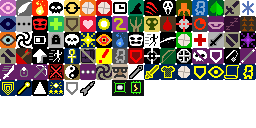
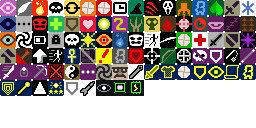
feat(hacker/traveler): 端口扫描重做为设备发现 + 骇入解除距离限制 + 旅行者机制修复
骇客：
- 一层天赋「端口扫描」重做为「设备发现」：击杀敌人后15%/30%几率
  获得一名随机敌人10回合视野（与奥术感知同机制，CharAwareness），
  触发提示「探测到局域网内的新用户」（存档点数自动迁移）
- 主动骇入移除8格距离限制：任何可见/被感知的敌人都可骇入
- 移除终端自施法扫描与饱腹值消耗

旅行者（全面审查修复）：
- 注魂爆发：眩晕改为狂乱(Amok)，文案同步（原文案「沉沦」与实现不符）
- 元素爆发补充魔法免疫检查（与战技一致）
- 战技充能不足时隐藏动作且fizzle不再误扣回合
- 神之眼buff图标(86号位)补画眼睛图案并纳入sprite_lab管线
  （根因：管线此前只生成过87/88两帧）
- 文案对齐实现：魔弹爆发能量返还、冲击波自施法漂浮与全层传送、
  冰霜战技回合数注释说明
- 英文天赋标题首字母大写

Changed region(s): [[0.375, 0.625, 0.4375, 0.75]]

diff --git a/core/src/main/java/com/shatteredpixel/shatteredpixeldungeon/items/PortableTerminal.java b/core/src/main/java/com/shatteredpixel/shatteredpixeldungeon/items/PortableTerminal.java
@@ -30,9 +30,7 @@ import com.shatteredpixel.shatteredpixeldungeon.actors.Actor;
 import com.shatteredpixel.shatteredpixeldungeon.actors.Char;
 import com.shatteredpixel.shatteredpixeldungeon.actors.buffs.Buff;
 import com.shatteredpixel.shatteredpixeldungeon.actors.buffs.Hacked;
-import com.shatteredpixel.shatteredpixeldungeon.actors.buffs.Hunger;
 import com.shatteredpixel.shatteredpixeldungeon.actors.buffs.MagicImmune;
-import com.shatteredpixel.shatteredpixeldungeon.actors.buffs.MindVision;
 import com.shatteredpixel.shatteredpixeldungeon.actors.buffs.Paralysis;
 import com.shatteredpixel.shatteredpixeldungeon.actors.hero.Hero;
 import com.shatteredpixel.shatteredpixeldungeon.actors.hero.HeroSubClass;
@@ -98,27 +96,9 @@ public class PortableTerminal extends Item {
                     if (cell == null) {
                         return; // 取消
                     }
-                    // 端口扫描（一层天赋）：骇客对自身使用终端，获得 3/5 回合灵视。
-                    // 不消耗时间，但消耗 10 点饱腹值。
-                    if (cell == hero.pos && hero.hasTalent(Talent.PORT_SCAN)) {
-                        Hunger hunger = hero.buff(Hunger.class);
-                        if (hunger == null || hunger.full() < 10) {
-                            GLog.w(Messages.get(PortableTerminal.class, "scan_hungry"));
-                            return;
-                        }
-                        int turns = 1 + 2 * hero.pointsInTalent(Talent.PORT_SCAN);
-                        hunger.affectHunger(-10);
-                        Buff.prolong(hero, MindVision.class, turns);
-                        Sample.INSTANCE.play(Assets.Sounds.SCAN);
-                        GLog.p(Messages.get(PortableTerminal.class, "scan_success", turns));
-                        hero.sprite.operate(hero.pos);
-                        Dungeon.observe();
-                        return;
-                    }
-                    // 无效目标：视野外/超距/空格/非敌人（自己、NPC、队友等）——不触发并提示
-                    // 灵视状态下无视 8 格距离限制，可骇入任何被灵视感知到的敌人
-                    if (!Dungeon.level.heroFOV[cell]
-                            || (Dungeon.level.distance(cell, hero.pos) > 8 && hero.buff(MindVision.class) == null)) {
+                    // 无效目标：视野/感知外、空格、非敌人（自己、NPC、队友等）——不触发并提示
+                    // 无距离限制：任何可见的敌人（包括灵视/感知发现的）都可骇入
+                    if (!Dungeon.level.heroFOV[cell]) {
                         GLog.w(Messages.get(PortableTerminal.class, "no_target"));
                         return;
                     }
@@ -143,9 +123,6 @@ public class PortableTerminal extends Item {
 
                 @Override
                 public String prompt() {
-                    if (Dungeon.hero.hasTalent(Talent.PORT_SCAN)) {
-                        return Messages.get(PortableTerminal.class, "prompt_scan");
-                    }
                     return Messages.get(PortableTerminal.class, "prompt");
                 }
             });

diff --git a/core/src/main/java/com/shatteredpixel/shatteredpixeldungeon/actors/mobs/Mob.java b/core/src/main/java/com/shatteredpixel/shatteredpixeldungeon/actors/mobs/Mob.java
@@ -57,6 +57,7 @@ import com.shatteredpixel.shatteredpixeldungeon.actors.buffs.Terror;
 import com.shatteredpixel.shatteredpixeldungeon.actors.hero.Hero;
 import com.shatteredpixel.shatteredpixeldungeon.actors.hero.HeroClass;
 import com.shatteredpixel.shatteredpixeldungeon.actors.hero.HeroSubClass;
+import com.shatteredpixel.shatteredpixeldungeon.actors.buffs.Hacked;
 import com.shatteredpixel.shatteredpixeldungeon.actors.hero.Talent;
 import com.shatteredpixel.shatteredpixeldungeon.actors.hero.abilities.ArmorAbility;
 import com.shatteredpixel.shatteredpixeldungeon.actors.hero.abilities.cleric.PowerOfMany;
@@ -102,6 +103,7 @@ import com.shatteredpixel.shatteredpixeldungeon.plants.Swiftthistle;
 import com.shatteredpixel.shatteredpixeldungeon.scenes.GameScene;
 import com.shatteredpixel.shatteredpixeldungeon.sprites.CharSprite;
 import com.shatteredpixel.shatteredpixeldungeon.utils.GLog;
+import com.shatteredpixel.shatteredpixeldungeon.items.artifacts.TalismanOfForesight;
 import com.watabou.noosa.audio.Sample;
 import com.watabou.utils.Bundle;
 import com.watabou.utils.PathFinder;
@@ -1053,6 +1055,26 @@ public abstract class Mob extends Char {
                         && Dungeon.hero.buff(Talent.LethalHasteCooldown.class) == null) {
                     Buff.affect(Dungeon.hero, Talent.LethalHasteCooldown.class, 100f);
                     Buff.affect(Dungeon.hero, GreaterHaste.class).set(2 + 2 * Dungeon.hero.pointsInTalent(Talent.LETHAL_HASTE));
+                }
+            }
+
+            // 设备发现（骇客）：击杀敌人后有 15%/30% 几率获得一名随机存活敌人的视野（10 回合）
+            if (Dungeon.hero.hasTalent(Talent.DEVICE_DISCOVERY)
+                    && (cause == Dungeon.hero || cause instanceof Weapon || cause instanceof Weapon.Enchantment
+                            || cause instanceof Hacked)) {
+                if (Random.Float() < 0.15f * Dungeon.hero.pointsInTalent(Talent.DEVICE_DISCOVERY)) {
+                    ArrayList<Mob> candidates = new ArrayList<>();
+                    for (Mob m : Dungeon.level.mobs) {
+                        if (m != this && m.isAlive() && m.alignment == Alignment.ENEMY) {
+                            candidates.add(m);
+                        }
+                    }
+                    if (!candidates.isEmpty()) {
+                        Mob found = Random.element(candidates);
+                        Buff.append(Dungeon.hero, TalismanOfForesight.CharAwareness.class, 10f).charID = found.id();
+                        GLog.p(Messages.get(Talent.class, "device_discovery.proc"));
+                        Sample.INSTANCE.play(Assets.Sounds.SCAN);
+                    }
                 }
             }
 

diff --git a/tools/sprite_lab/gen_buff_icons.py b/tools/sprite_lab/gen_buff_icons.py
@@ -19,6 +19,25 @@ DARK = (14, 16, 18)
 
 # ---------- 大图标 16x16 ----------
 LARGE = {
+    # 86 神之眼：眼睛剪影（白灰配色，供 EnergyTracker 的蓝色 hardlight 染色）
+    86: dict(bg=DARK, rows=[
+        "................",
+        "................",
+        "................",
+        "................",
+        ".....wwwwww.....",
+        "...ww......ww...",
+        "..w....WW....w..",
+        ".w....WWWW....w.",
+        ".w....WWWW....w.",
+        "..w....WW....w..",
+        "...ww......ww...",
+        ".....wwwwww.....",
+        "................",
+        "................",
+        "................",
+        "................",
+    ]),
     # 87 骇入：灰核心 + 绿缠绕环 + 四角数据线头
     87: dict(bg=DARK, rows=[
         "................",
@@ -61,6 +80,16 @@ LARGE = {
 
 # ---------- 小图标 7x7 ----------
 SMALL = {
+    # 86 神之眼：眼睛
+    86: dict(bg=DARK, rows=[
+        ".......",
+        "..www..",
+        ".w.W.w.",
+        "w.WWW.w",
+        ".w.W.w.",
+        "..www..",
+        ".......",
+    ]),
     87: dict(bg=DARK, rows=[
         ".......",
         ".GGGGG.",
@@ -119,8 +148,8 @@ def main():
     # 预览：大图标 + 小图标 + 原版 buff 风格参照（帧 3燃烧/4 等大图）
     scale = 16
     prev = Image.new("RGBA", (8 * 17 + 1, 35), (40, 40, 48, 255))
-    items = [(large, 87, 16), (large, 88, 16), (large, 3, 16), (large, 6, 16),
-             (small, 87, 7), (small, 88, 7), (small, 3, 7), (small, 6, 7)]
+    items = [(large, 86, 16), (large, 87, 16), (large, 88, 16), (large, 3, 16),
+             (small, 86, 7), (small, 87, 7), (small, 88, 7), (small, 3, 7)]
     for i, (sheet, idx, sz) in enumerate(items):
         cols = 16 if sz == 16 else 18
         box = ((idx % cols) * sz, (idx // cols) * sz, (idx % cols) * sz + sz, (idx // cols) * sz + sz)

diff --git a/core/src/main/java/com/shatteredpixel/shatteredpixeldungeon/actors/hero/Talent.java b/core/src/main/java/com/shatteredpixel/shatteredpixeldungeon/actors/hero/Talent.java
@@ -244,7 +244,7 @@ public enum Talent {
     //Ratmogrify T4
     RATSISTANCE(215, 4), RATLOMACY(216, 4), RATFORCEMENTS(217, 4),
     //Hacker T1
-    PORT_SCAN(1224), RUNESTONE_CONFUSION(1225), ARMOR_PIERCE(1226), REVERSE_PROXY(1227),
+    DEVICE_DISCOVERY(1224), RUNESTONE_CONFUSION(1225), ARMOR_PIERCE(1226), REVERSE_PROXY(1227),
     //Hacker T2
     HOLO_RATIONS(1228), LIQUID_COOLING(1229), BFS_SEARCH(1230), PRIVILEGE_ESCALATION(1231), OVERCLOCKING(1232),
     //Hacker T3
@@ -1601,7 +1601,7 @@ public enum Talent {
                 Collections.addAll(tierTalents, SATIATED_SPELLS, HOLY_INTUITION, SEARING_LIGHT, SHIELD_OF_LIGHT);
                 break;
             case HACKER:
-                Collections.addAll(tierTalents, PORT_SCAN, RUNESTONE_CONFUSION, ARMOR_PIERCE, REVERSE_PROXY);
+                Collections.addAll(tierTalents, DEVICE_DISCOVERY, RUNESTONE_CONFUSION, ARMOR_PIERCE, REVERSE_PROXY);
                 break;
         }
         for (Talent talent : tierTalents) {
@@ -1816,9 +1816,10 @@ public enum Talent {
 
 	private static final HashMap<String, String> renamedTalents = new HashMap<>();
 	static{
-		//v0.1.7：骇客一层「全息口粮」重做为一层「端口扫描」，二层「屏蔽一餐」重做为二层「全息口粮」
-		renamedTalents.put("HOLO_RATIONS", "PORT_SCAN");
+		//v0.1.7：骇客一层「全息口粮」重做为一层「设备发现」，二层「屏蔽一餐」重做为二层「全息口粮」
+		renamedTalents.put("HOLO_RATIONS", "DEVICE_DISCOVERY");
 		renamedTalents.put("SKIPPED_MEAL", "HOLO_RATIONS");
+		renamedTalents.put("PORT_SCAN", "DEVICE_DISCOVERY");
 	}
 
     public static void restoreTalentsFromBundle(Bundle bundle, Hero hero) {

diff --git a/core/src/main/java/com/shatteredpixel/shatteredpixeldungeon/actors/hero/abilities/mage/TravelerSpells.java b/core/src/main/java/com/shatteredpixel/shatteredpixeldungeon/actors/hero/abilities/mage/TravelerSpells.java
@@ -465,6 +465,7 @@ public class TravelerSpells {
             GnosisEye eye = GnosisEye.getHeroGnosisEye(hero);
             if (eye != null) eye.gainEnergy(lvl);
         }
+        // 无敌/冻结 buff 在附加的当回合就会消耗 1 回合，所以 set(3f) 实际生效 2 回合，与文案一致
         Buff.affect(hero, FrozenInvulnerability.class).set(3f);
         hero.sprite.centerEmitter().burst(com.shatteredpixel.shatteredpixeldungeon.effects.particles.SnowParticle.FACTORY, 10);
         Sample.INSTANCE.play(Assets.Sounds.SHATTER);
@@ -561,8 +562,9 @@ public class TravelerSpells {
             Charm charm = Buff.affect(ch, Charm.class, 10f);
             charm.object = hero.id();
             Buff.prolong(ch, Paralysis.class, 3f);
-            if (Random.Float() < 0.5f && !ch.isImmune(com.shatteredpixel.shatteredpixeldungeon.actors.buffs.Vertigo.class)) {
-                Buff.prolong(ch, com.shatteredpixel.shatteredpixeldungeon.actors.buffs.Vertigo.class, 5f);
+            // 50% 概率狂乱（敌我不分），免疫或判定失败则改为自攻
+            if (Random.Float() < 0.5f && !ch.isImmune(com.shatteredpixel.shatteredpixeldungeon.actors.buffs.Amok.class)) {
+                Buff.affect(ch, com.shatteredpixel.shatteredpixeldungeon.actors.buffs.Amok.class, 5f);
             } else {
                 ch.attack(ch);
             }

diff --git a/core/src/main/java/com/shatteredpixel/shatteredpixeldungeon/items/weapon/melee/MagesStaff.java b/core/src/main/java/com/shatteredpixel/shatteredpixeldungeon/items/weapon/melee/MagesStaff.java
@@ -115,9 +115,10 @@ public class MagesStaff extends MeleeWeapon {
         if (wand != null) {
             if (hero.subClass == HeroSubClass.TRAVELER) {
                 GnosisEye eye = GnosisEye.getHeroGnosisEye(hero);
-                if (eye != null && eye.skillMode) {
+                // 战技模式下充能不足时不显示战技动作（与法杖充能耗尽时隐藏释放动作一致）
+                if (eye != null && eye.skillMode && wand.curCharges >= skillChargeCost()) {
                     actions.add(AC_ELEMENTAL_SKILL);
-                } else if (wand.curCharges > 0) {
+                } else if ((eye == null || !eye.skillMode) && wand.curCharges > 0) {
                     actions.add(AC_ZAP);
                 }
             } else if (wand.curCharges > 0) {
@@ -202,8 +203,8 @@ public class MagesStaff extends MeleeWeapon {
             return;
         }
         if (wand.curCharges < skillChargeCost()) {
+            // 充能不足：仅提示，不消耗回合（正常情况下动作已被隐藏，此处为快捷栏等入口的兜底）
             GLog.w(Messages.get(Wand.class, "fizzles"));
-            hero.spendAndNext(Actor.TICK);
             return;
         }
         promptSkillTarget(hero);

diff --git a/core/src/main/java/com/shatteredpixel/shatteredpixeldungeon/items/artifacts/GnosisEye.java b/core/src/main/java/com/shatteredpixel/shatteredpixeldungeon/items/artifacts/GnosisEye.java
@@ -27,6 +27,7 @@ package com.shatteredpixel.shatteredpixeldungeon.items.artifacts;
 import com.shatteredpixel.shatteredpixeldungeon.Dungeon;
 import com.shatteredpixel.shatteredpixeldungeon.actors.Actor;
 import com.shatteredpixel.shatteredpixeldungeon.actors.Char;
+import com.shatteredpixel.shatteredpixeldungeon.actors.buffs.MagicImmune;
 import com.shatteredpixel.shatteredpixeldungeon.actors.hero.Hero;
 import com.shatteredpixel.shatteredpixeldungeon.actors.hero.abilities.mage.TravelerSpells;
 import com.shatteredpixel.shatteredpixeldungeon.items.Item;
@@ -124,6 +125,10 @@ public class GnosisEye extends Artifact {
             }
             GLog.i(Messages.get(this, skillMode ? "skill_mode_on" : "skill_mode_off"));
         } else if (action.equals(AC_ELEMENTAL_BURST)) {
+            if (hero.buff(MagicImmune.class) != null) {
+                GLog.w(Messages.get(Wand.class, "no_magic"));
+                return;
+            }
             if (!isFull()) {
                 GLog.w(Messages.get(this, "not_full"));
                 return;
